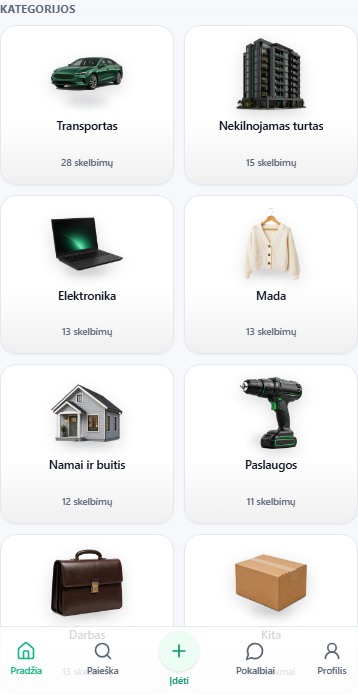
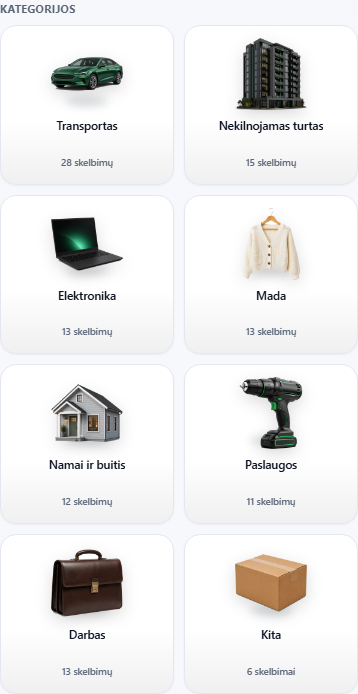
fix(ui): mobile category-grid evidence at the real scroll position — last row fully above the bottom nav

diff --git a/tests/e2e/f7-category-cards.spec.ts b/tests/e2e/f7-category-cards.spec.ts
@@ -519,22 +519,33 @@ test.describe("F7 — kortelių vientisumas (mobile)", () => {
     });
     expect(overflow).toBeLessThanOrEqual(1);
 
-    // The fixed bottom navigation must not PERMANENTLY cover the last
-    // category row: after scrolling the row to the center of the viewport
-    // it must sit fully above the nav (i.e. it can always be revealed).
-    const lastTile = page.locator("[data-category-card]").last();
-    await lastTile.evaluate((el) => el.scrollIntoView({ block: "center" }));
-    await page.waitForTimeout(150);
-    const clearance = await page.evaluate(() => {
-      const tile = document.querySelectorAll("[data-category-card]");
-      const nav = document.querySelector("[data-mobile-bottom-nav]");
-      const last = tile[tile.length - 1] as HTMLElement;
-      const navTop = nav ? (nav as HTMLElement).getBoundingClientRect().top : 0;
-      return navTop - last.getBoundingClientRect().bottom;
+    // REAL user scroll: bring the whole grid fully above the fixed bottom
+    // navigation (the natural position where the last row is fully readable),
+    // then verify the last row's titles + counts clear the nav.
+    const clearance = await page.evaluate(async () => {
+      const grid = document.querySelector("[data-home-category-grid]") as HTMLElement;
+      const nav = document.querySelector("[data-mobile-bottom-nav]") as HTMLElement;
+      grid.scrollIntoView();
+      await new Promise((r) => setTimeout(r, 60));
+      const gridBox = grid.getBoundingClientRect();
+      const navBox = nav.getBoundingClientRect();
+      const delta = gridBox.bottom - navBox.top + 12;
+      window.scrollBy(0, delta);
+      await new Promise((r) => setTimeout(r, 60));
+      const tiles = Array.from(document.querySelectorAll("[data-category-card]"));
+      const last = tiles[tiles.length - 1] as HTMLElement;
+      const lastBox = last.getBoundingClientRect();
+      const newNavTop = nav.getBoundingClientRect().top;
+      return {
+        clearance: newNavTop - lastBox.bottom,
+        navVisible: newNavTop < window.innerHeight,
+        scrollY: window.scrollY,
+      };
     });
     expect(
-      clearance,
-      "last category row must be fully revealable above the fixed bottom nav"
+      clearance.clearance,
+      "last category row must be fully above the bottom nav after a real scroll"
     ).toBeGreaterThanOrEqual(-1);
+    expect(clearance.navVisible, "bottom nav itself stays visible").toBe(true);
   });
 });
